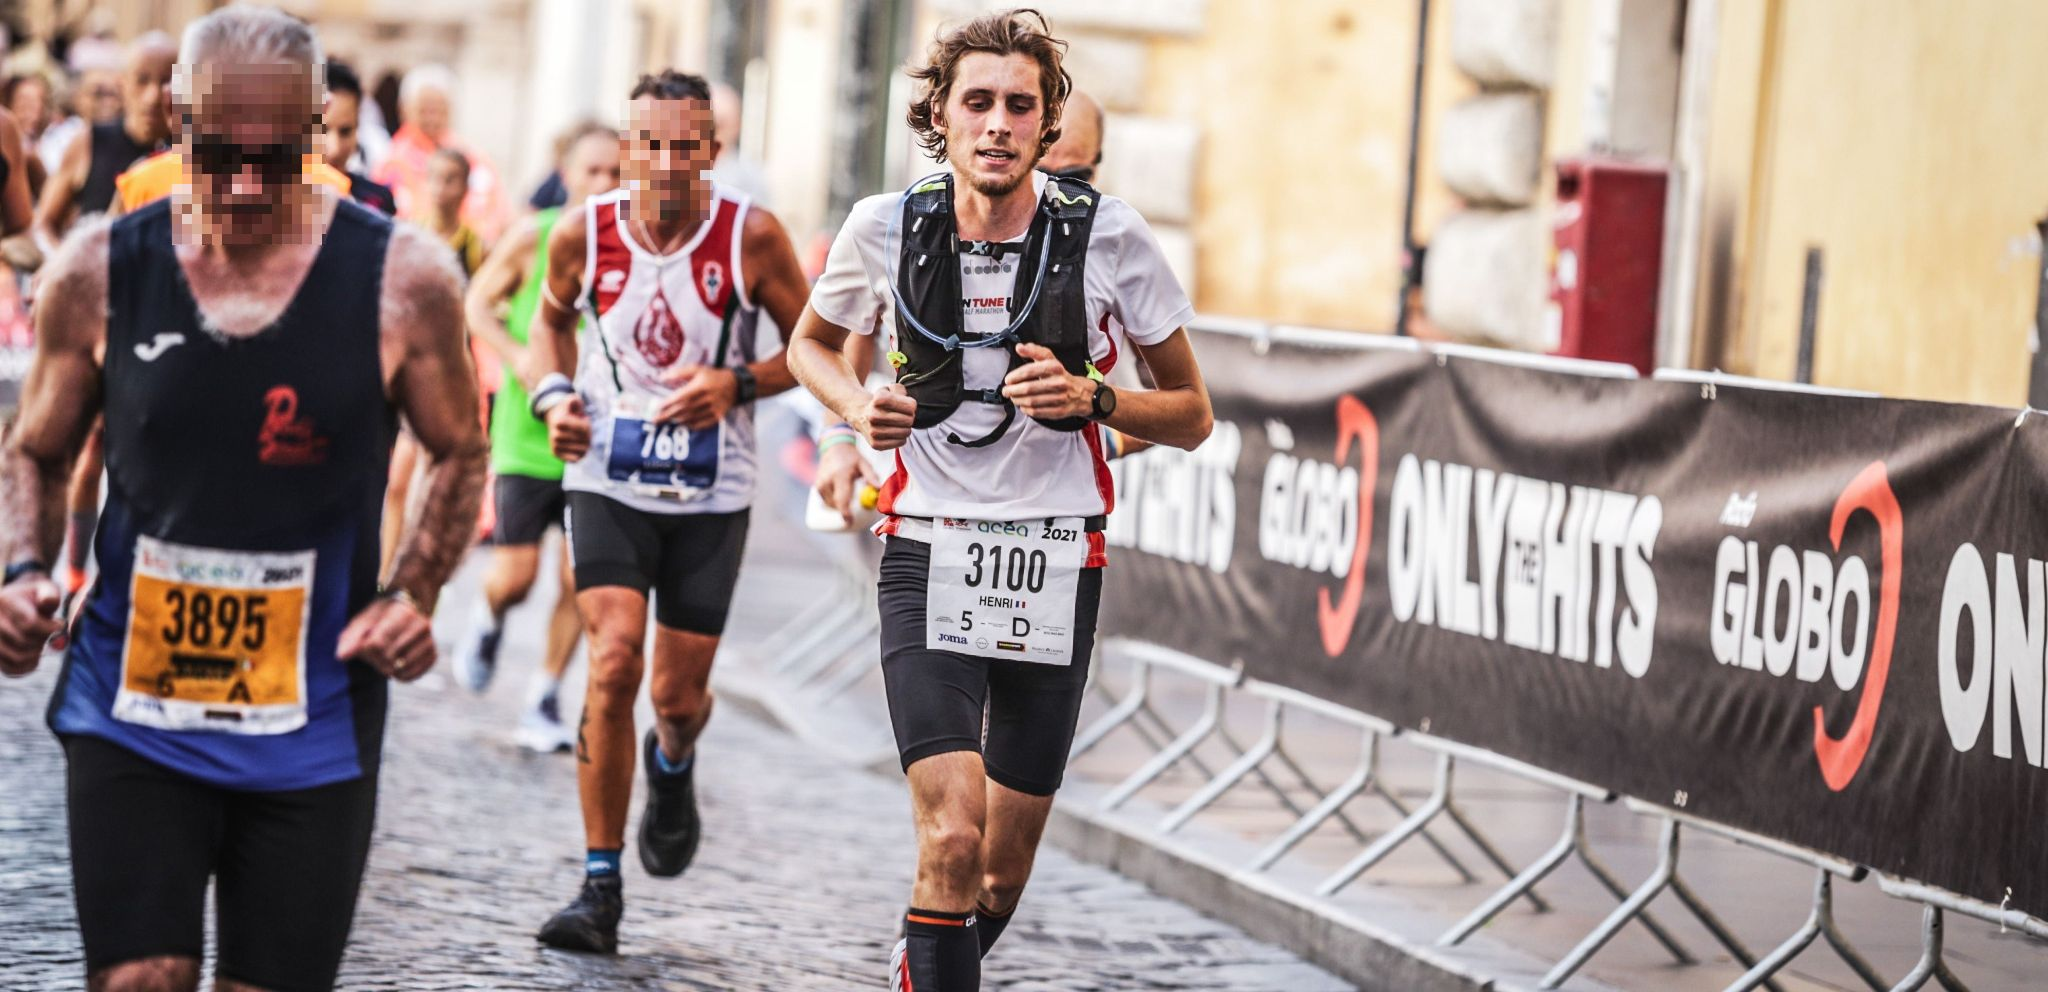
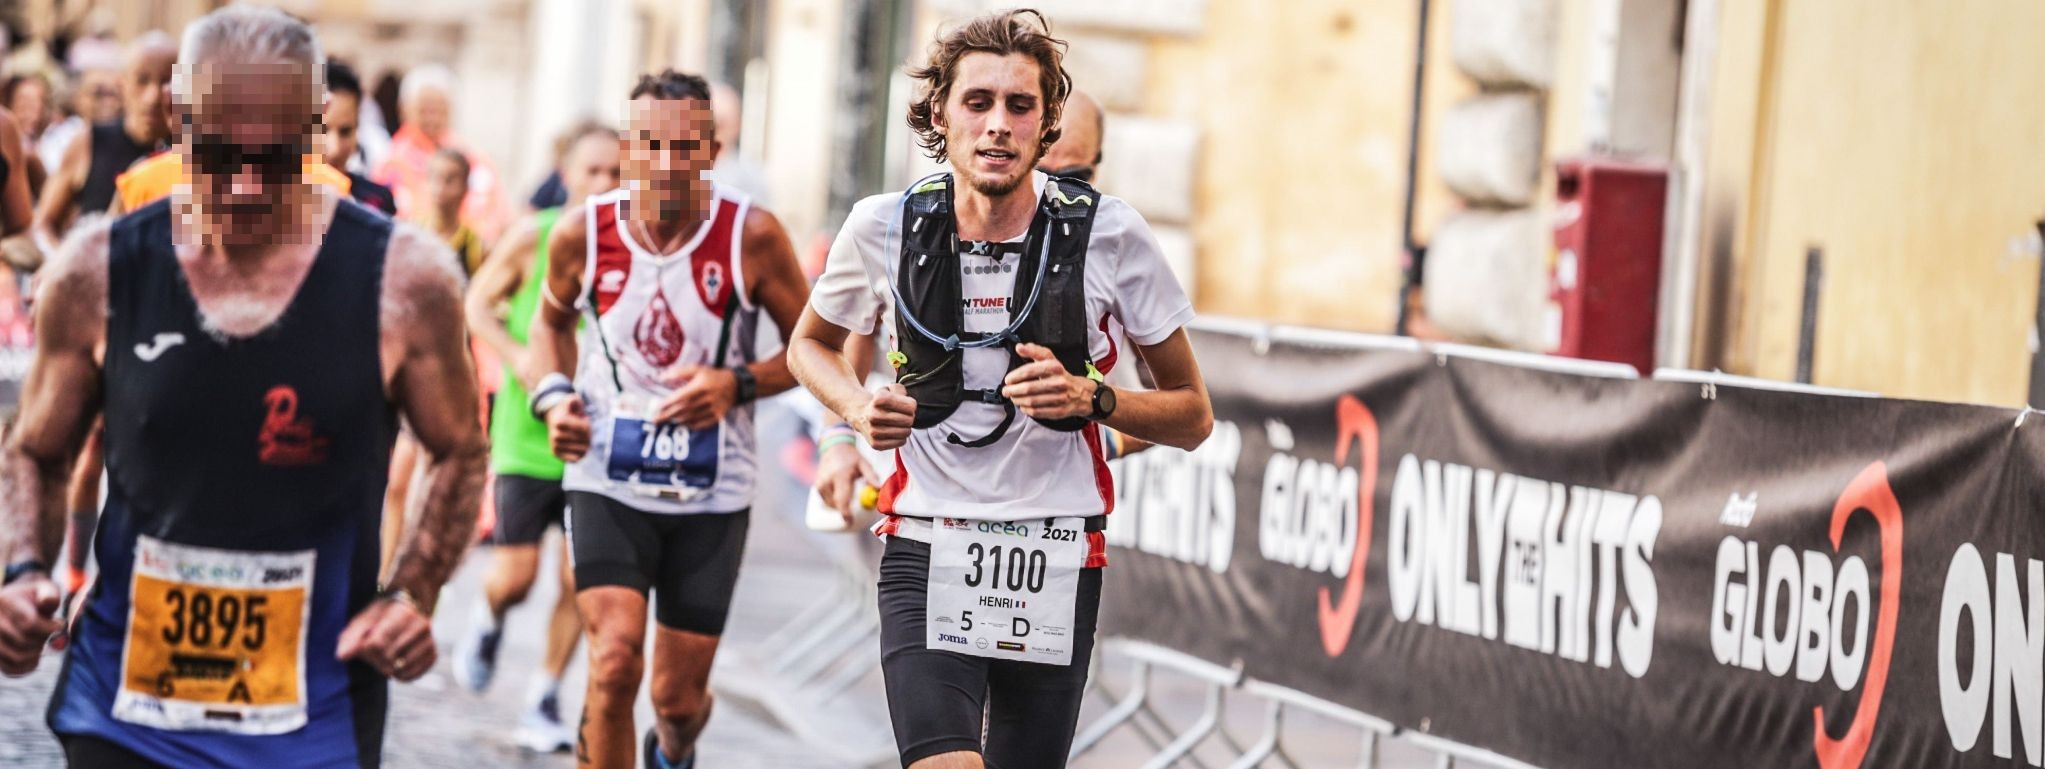
add cover images

diff --git a/_includes/header.html b/_includes/header.html
@@ -9,9 +9,9 @@
         <a href="/">Home</a>
         <a href="/publications">Publications & Talks</a>
         <a href="/teaching">Teaching</a>
-        <a href="/curriculum">Resume</a>
         <a href="/running">Running</a>
         <a href="/beer">BeerMaps!</a>
+        <a href="/public/pdf/Curriculum_Vitae.pdf" target="_blank">CV</a>
         <!--{% assign pages_list = site.pages %}
           {% for node in pages_list %}
             {% if node.title != null %}

diff --git a/_layouts/page.html b/_layouts/page.html
@@ -3,6 +3,11 @@ layout: default
 ---
 
 <div class="page">
+  {% if page.image != nil %}
+  <div>
+    <img src="public/img/{{ page.image }}" id="cover-image" > <!-- 8/3 for pages -->
+  </div>
+  {% endif %}
   {% if page.title != "Home" %}
   <h1 id="page-title">{{ page.title }}</h1>
   {% endif %}

diff --git a/_layouts/category.html b/_layouts/category.html
@@ -2,6 +2,11 @@
 layout: default
 ---
 
+{% if page.image != nil %}
+<div>
+<img src="public/img/{{ page.image }}" id="cover-image" > <!-- 8/3 for pages -->
+</div>
+{% endif %}
 <h1>{{ page.title }}</h1>
 {{ content }}
 {% for node in site.pages %}

diff --git a/public/css/design.css b/public/css/design.css
@@ -111,5 +111,10 @@ pre * {
     font-family: monospace;
 }
 #page-title, #post-title {
-    margin-top: 40px;
+    margin-top: 10px;
+}
+#cover-image {
+    width: 100%;
+    border-top: 5px solid #efefef;
+    border-bottom: 5px solid #efefef;
 }

diff --git a/index.md b/index.md
@@ -1,18 +1,15 @@
 ---
 title: Home
 layout: page
+image: cover_censored.jpg
 ---
-
-<div>
-<img src="public/img/cover_censored.jpg" style="width:100%;" >
-</div>
 
 ## Bio
 
-Henri Lefebvre is a Ph.D student in Optimization and Operations Research at the [University of Bologna](https://www.unibo.it/it). He earned a Master Degree in “Machine learning and optimization of complex systems” from the [University of Technology at Compiègne](https://utc.fr/en.html) (France) in 2019, after graduating the same year from the [University of Genova](https://unige.it/) (Italy) with an MSc in “Computer Systems Engineering” focusing on production systems and logistics.
+I am a Ph.D student in Mathematical Optimization and Operations Research at the [University of Bologna](https://www.unibo.it/it). My main research interests are in optimization under uncertainty and exact decomposition methods for large-scale problems. In particular, my work focuses on exact methods for adjustable robust problems with mixed-integer second-stage decisions by exploiting polyhedral analysis results and decomposition approaches.
 
-He conducted his master thesis at the [INRIA Bordeaux Sud-Ouest research laboratory](https://www.inria.fr/centre/bordeaux) (Bordeaux, France) on two-stage robust optimization problems with specific applications in scheduling. This work was awarded the prize for best master thesis in 2020 by the French Operations Research Society (ROADEF).
+I earned a Master Degree in “Machine learning and optimization of complex systems” from the [University of Technology of Compiègne](https://utc.fr/en.html) (France) in 2019 as well as an Engineer degree from the same school, after graduating the same year from the [University of Genova](https://unige.it/) (Italy) with an MSc in “Computer Systems Engineering” focusing on production systems and logistics.
 
-Since graduating, his main research interests have been in optimization under uncertainty and exact decomposition methods for large-scale problems. In particular, his work focuses on exact methods for adaptive optimization problems with mixed-integer wait-and-see feasible space by exploiting polyhedral analysis results and decomposition approaches.
+I conducted my master thesis at the [INRIA Bordeaux Sud-Ouest research laboratory](https://www.inria.fr/centre/bordeaux) (Bordeaux, France) on two-stage robust optimization problems with specific applications in scheduling with Boris Detienne and François Clautiaux. Our work was awarded the prize for best master thesis in 2020 by the French Operations Research Society (ROADEF).
 
-Henri’s Ph.D thesis is funded by the European Union’s EU Framework Programme for Research and Innovation (Horizon 2022) under the Marie Sklodowska-Curie Actions Grant agreement number 764759 and is part of the [“Mixed Integer Nonlinear Optimization: Algorithms and Applications”](https://minoa-itn.fau.de/) (MINOA) project.
+My Ph.D thesis was (partially) funded by the European Union’s EU Framework Programme for Research and Innovation (Horizon 2022) under the Marie Sklodowska-Curie Actions Grant agreement number 764759 and was part of the [“Mixed Integer Nonlinear Optimization: Algorithms and Applications”](https://minoa-itn.fau.de/) (MINOA) project.

diff --git a/publications.md b/publications.md
@@ -1,6 +1,7 @@
 ---
 layout: page
 title: Publications & Talks
+image: roadef_2022.jpg
 ---
 
 ## Scientific papers in peer-reviewed journals
@@ -16,12 +17,12 @@ title: Publications & Talks
 ## Scientific talks
 
 - Reformulation for a two-stage robust facility location problem, __H. Lefebvre__, E. Malaguti, M. Monaci (2022), [23rd Conference of the French OR society (ROADEF)](https://roadef2022.sciencesconf.org/), Lyon (France)
-- A finite eps-convergence algorithm for 0-1 mixed-integer convex two-stage robust optimization with objective uncertainty, __H. Lefebvre__, B. Detienne, E. Malaguti, M. Monaci (2021), [50th International Conference on Optimization and Decision Science (ODS)](https://euro2022espoo.com/),
+- A finite $$\varepsilon$$-convergence algorithm for 0-1 mixed-integer convex two-stage robust optimization with objective uncertainty, __H. Lefebvre__, B. Detienne, E. Malaguti, M. Monaci (2021), [50th International Conference on Optimization and Decision Science (ODS)](https://euro2022espoo.com/),
 Roma (Italy)
-- A finite eps-convergence algo
+- A finite $$\varepsilon$$-convergence algo
 rithm for 0-1 mixed-integer convex two-stage robust optimization with objective uncertainty, __H. Lefebvre__, B. Detienne, E. Malaguti, M. Monaci (2021), [31st European Conference on Operational Research (EURO)](https://euro2021athens.com/), virtual
-- A finite eps-convergence algorithm for 0-1 mixed-integer convex two-stage robust optimization with objective uncertainty, __H. Lefebvre__, B. Detienne, E. Malaguti, M. Monaci (2021), [22nd Conference of the French OR society (ROADEF)](https://roadef2021.sciencesconf.org/), virtual
-- A finite eps-convergence algorithm for 0-1 mixed-integer convex two-stage robust optimization with objective uncertainty, H. Lefebvre, __B. Detienne__, E. Malaguti, M. Monaci (2021), [Workshop on Polyhedra and Combinatorial Optimization (JPOC)](https://www.lamsade.dauphine.fr/~poc/jpoc12/programme.php), virtual
+- A finite $$\varepsilon$$-convergence algorithm for 0-1 mixed-integer convex two-stage robust optimization with objective uncertainty, __H. Lefebvre__, B. Detienne, E. Malaguti, M. Monaci (2021), [22nd Conference of the French OR society (ROADEF)](https://roadef2021.sciencesconf.org/), virtual
+- A finite $$\varepsilon$$-convergence algorithm for 0-1 mixed-integer convex two-stage robust optimization with objective uncertainty, H. Lefebvre, __B. Detienne__, E. Malaguti, M. Monaci (2021), [Workshop on Polyhedra and Combinatorial Optimization (JPOC)](https://www.lamsade.dauphine.fr/~poc/jpoc12/programme.php), virtual
 - A two-stage robust approach for minimizing the weighted number of tardy jobs with profit uncertainty, F. Clautiaux, __B. Detienne__, H. Lefebvre (2021), [17th International Workshop on Project Management and Scheduling (PMS)](https://pms2020.sciencesconf.org/), virtual
 - A two-stage robust approach for minimizing the weighted number of tardy jobs with profit uncertainty, F. Clautiaux, B. Detienne, __H. Lefebvre__ (2020), [21st Conference of the French OR society (ROADEF)](https://roadef2020.sciencesconf.org/), Montpellier (France)
 

diff --git a/beer.md b/beer.md
@@ -2,6 +2,7 @@
 layout: category
 title: Beer Maps
 category: beer
+image: beer.jpg
 ---
 
 Beer is life.

diff --git a/teaching.md b/teaching.md
@@ -1,6 +1,7 @@
 ---
 layout: page
 title: Teaching
+image: teaching.jpg
 ---
 
 ## Internship supervision

diff --git a/running.md b/running.md
@@ -1,6 +1,7 @@
 ---
 layout: page
 title: Running
+image: run.jpg
 ---
 
 ## Marathons
